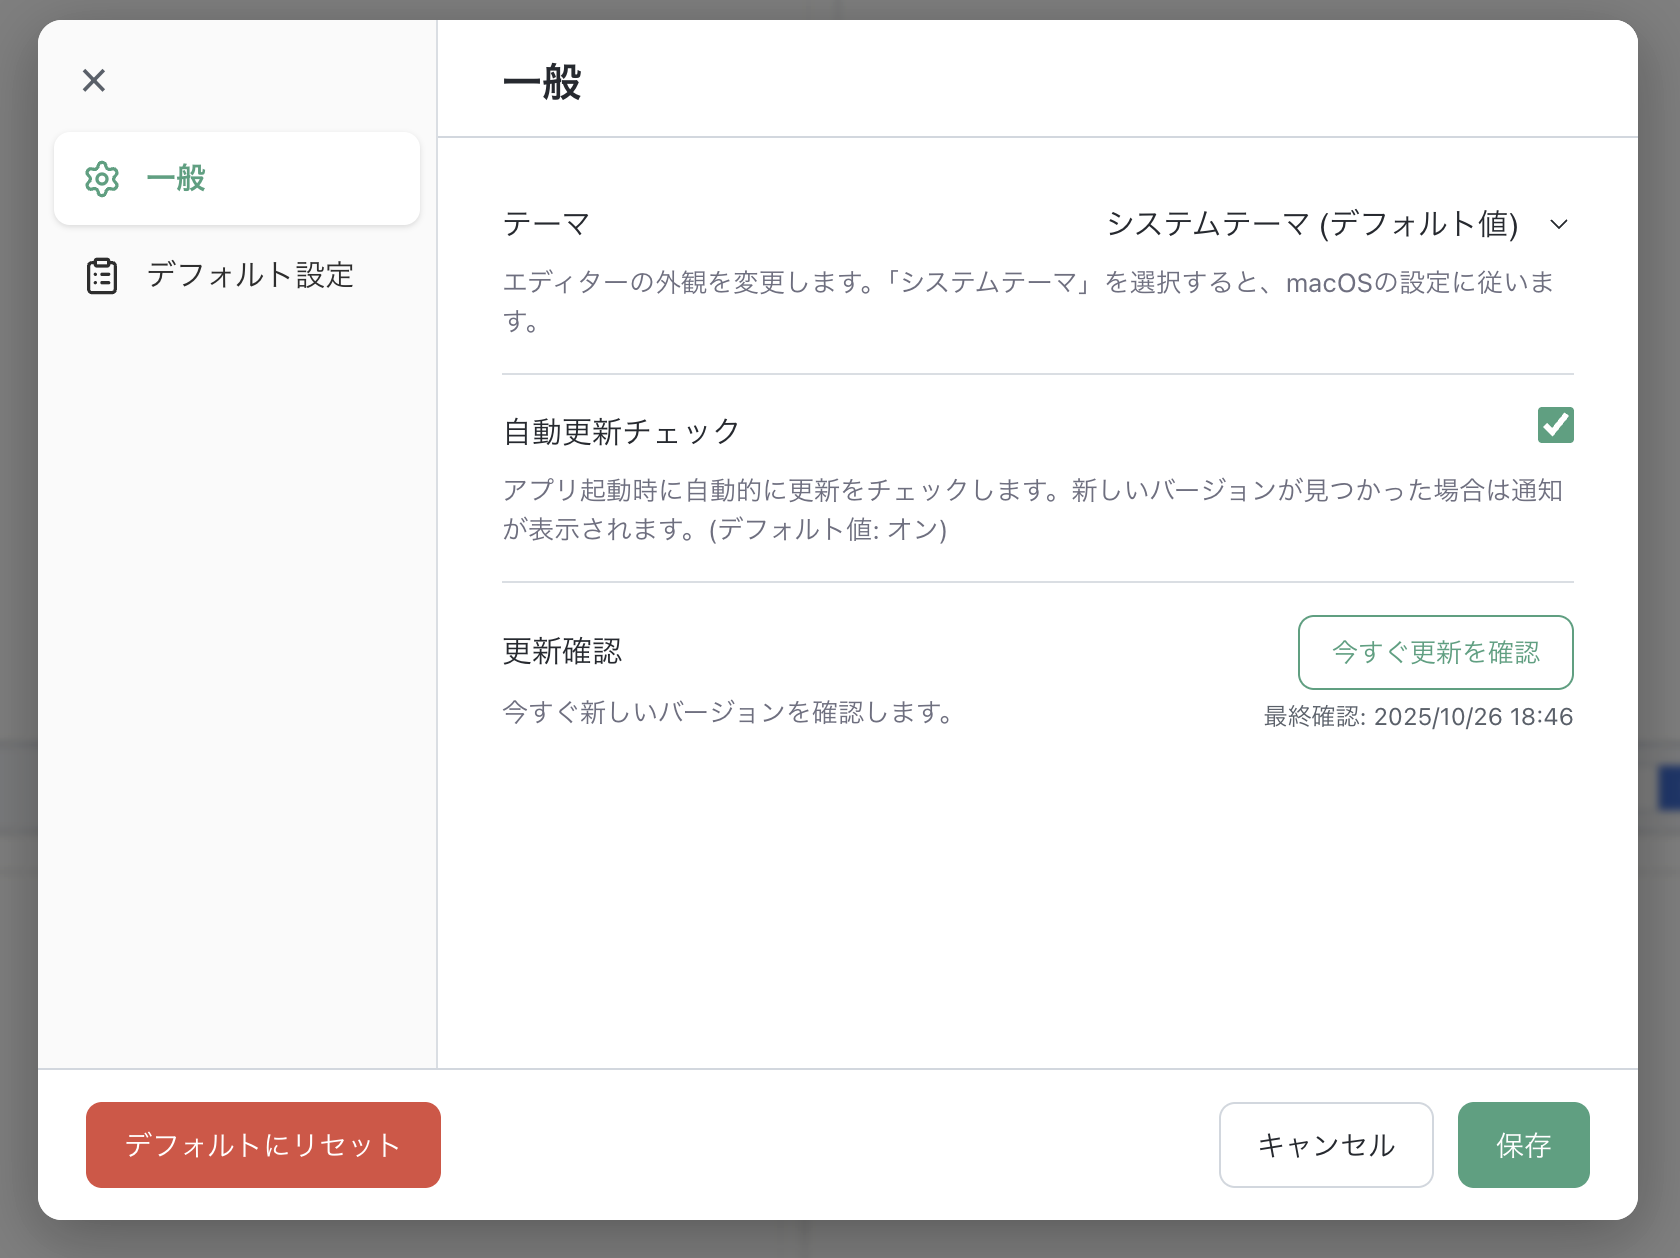
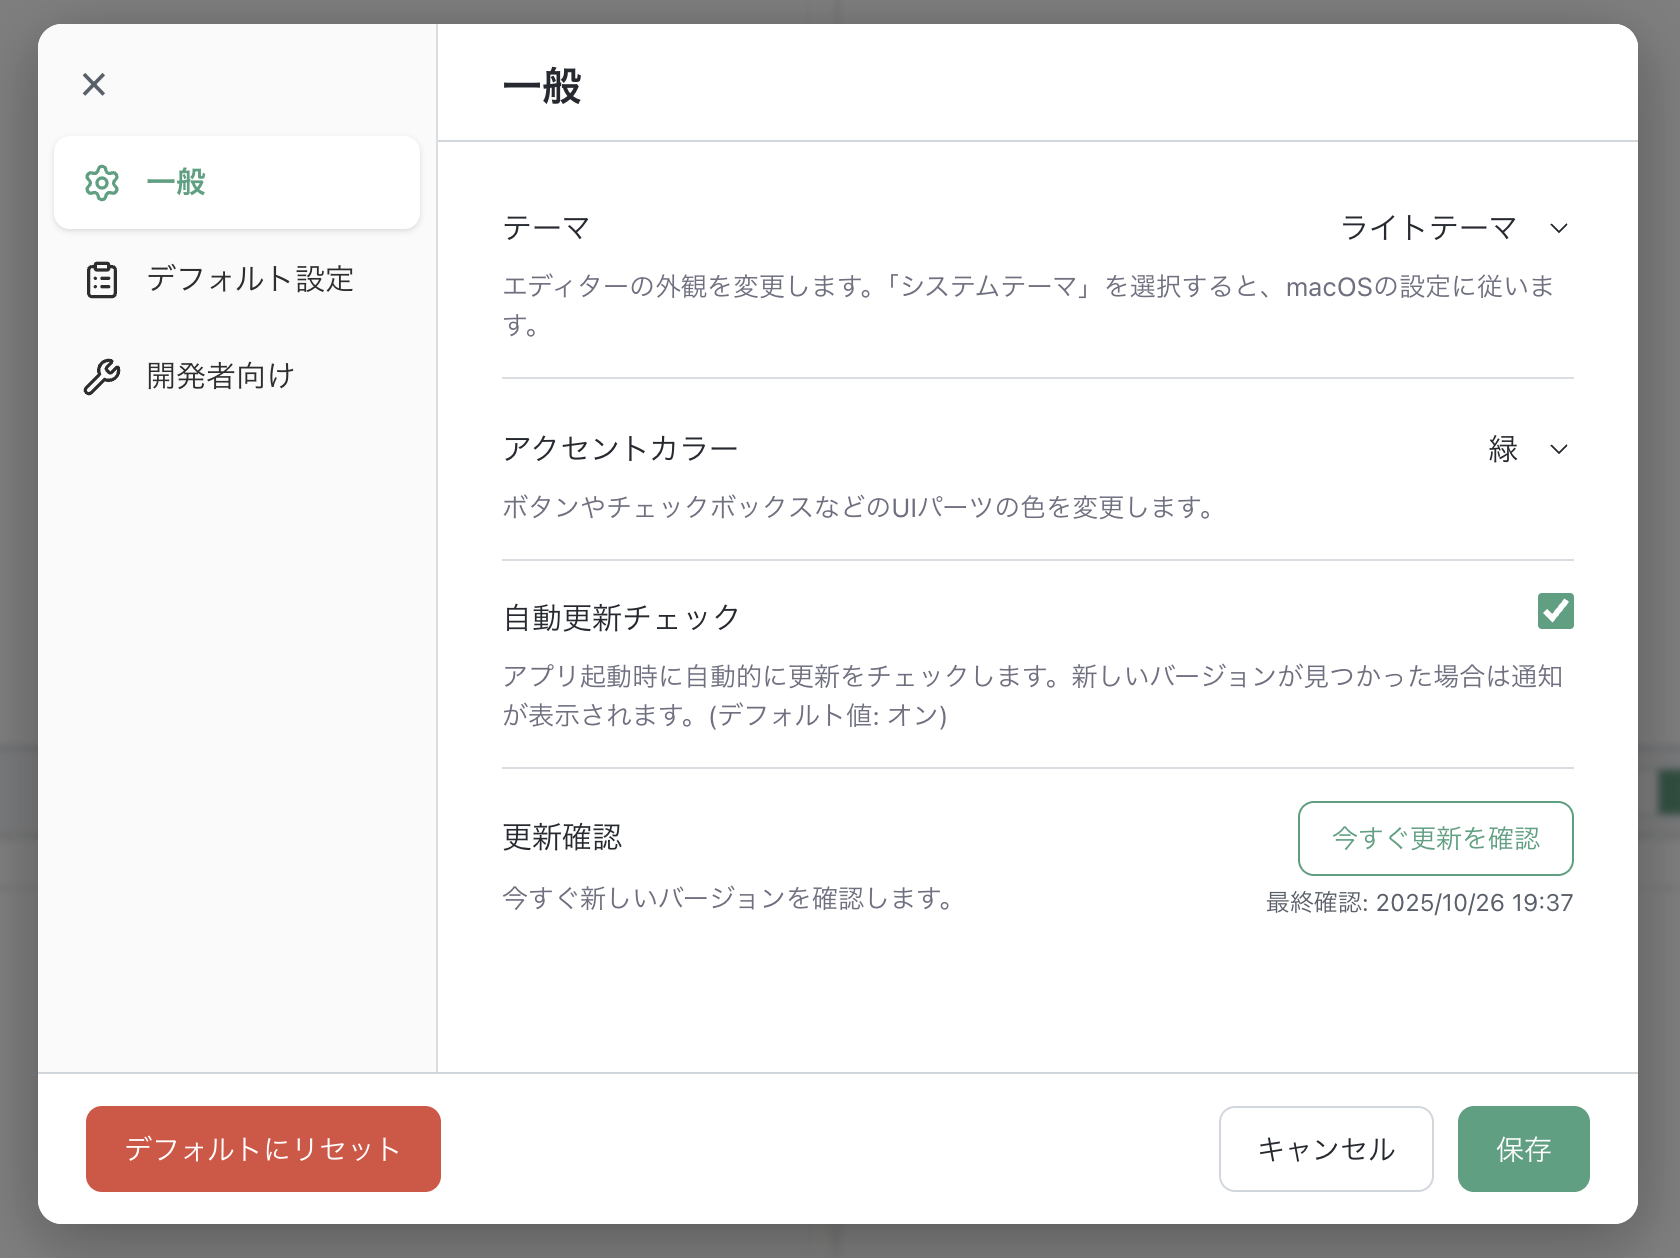
docs: READMEの設定画面説明にアクセントカラーを追加

diff --git a/README.md b/README.md
@@ -78,7 +78,7 @@
 
 | 一般 | デフォルト設定（エディタ） |
 |:---:|:---:|
-| <img src=".github/images/settings1.png" alt="設定モーダル - 一般" height="400"><br>*テーマ、自動更新* | <img src=".github/images/settings2.png" alt="設定モーダル - デフォルト設定（エディタ）" height="400"><br>*フォントサイズ、空白文字の表示* |
+| <img src=".github/images/settings1.png" alt="設定モーダル - 一般" height="400"><br>*テーマ、アクセントカラー、自動更新* | <img src=".github/images/settings2.png" alt="設定モーダル - デフォルト設定（エディタ）" height="400"><br>*フォントサイズ、空白文字の表示* |
 | **デフォルト設定（エディタ）** | **デフォルト設定（差分）** |
 | <img src=".github/images/settings3.png" alt="設定モーダル - デフォルト設定（エディタ）" height="400"><br>*インデント方式、インデントサイズ、デフォルト改行コード、デフォルト言語モード* | <img src=".github/images/settings4.png" alt="設定モーダル - デフォルト設定（差分）" height="400"><br>*比較の方式、Compactモード* |
 
